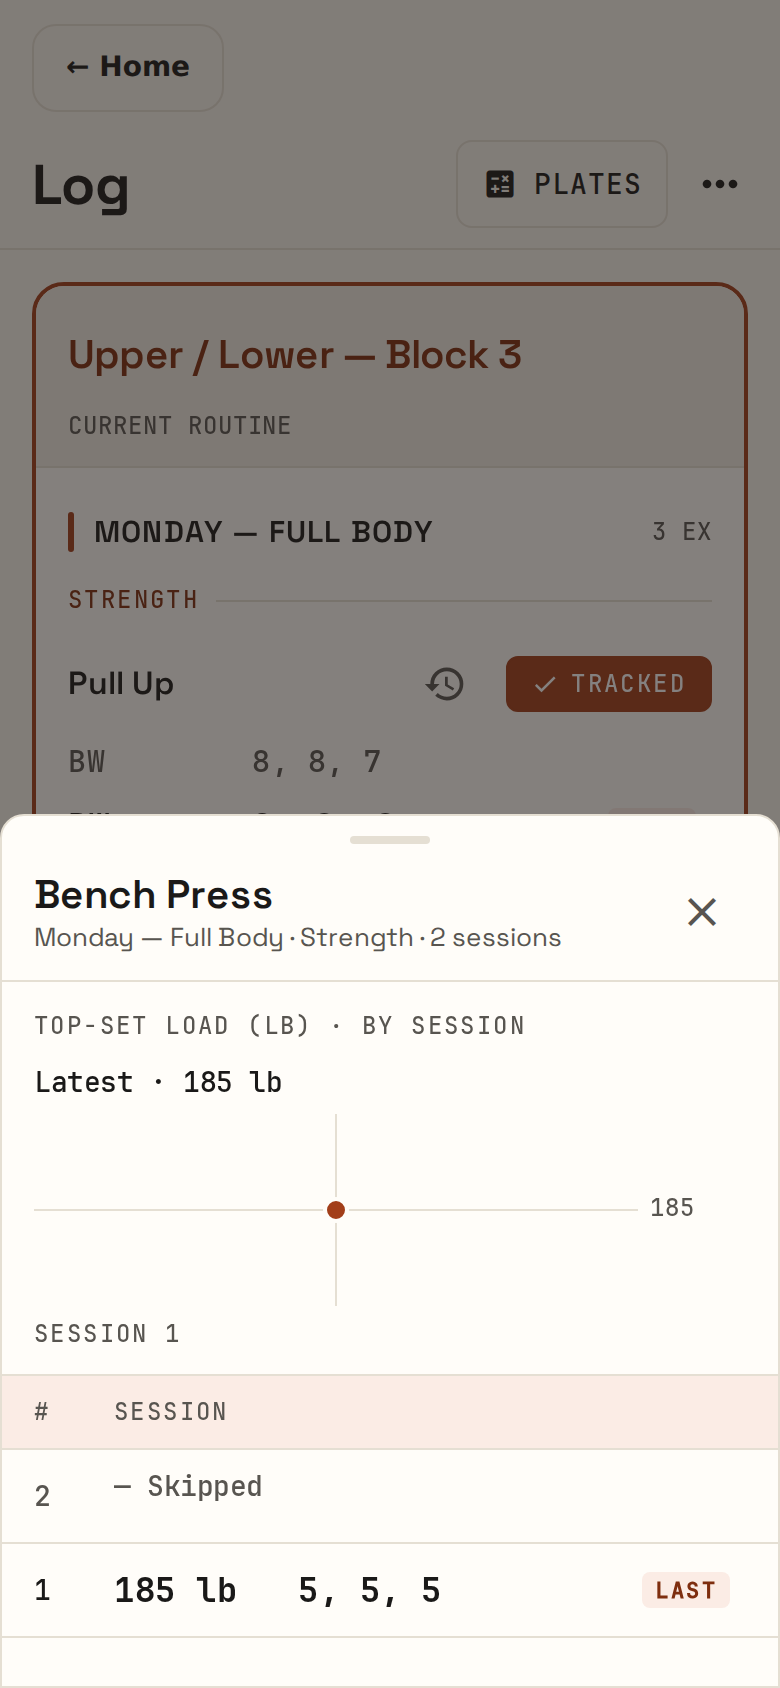
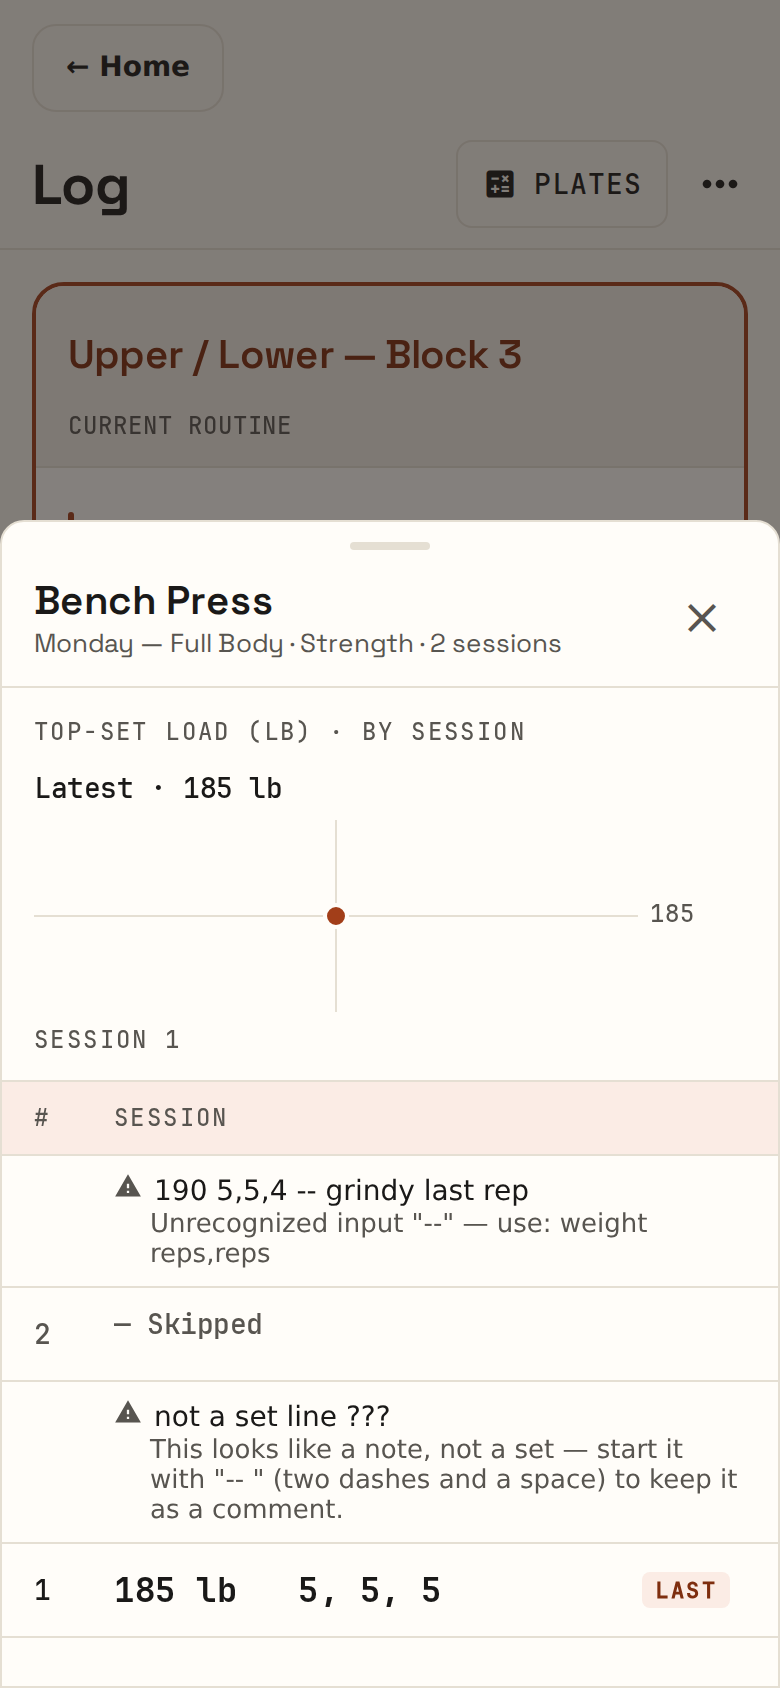
Rerender history evidence for unparsed rows (#1607)

diff --git a/docs/evidence/app-redesign-v3/r8/README.md b/docs/evidence/app-redesign-v3/r8/README.md
@@ -1,6 +1,6 @@
 # R8 (#1607) visual evidence — Log history sheet and rest-timer surfaces
 
-- **Rendered commits:** panel states (`editor-presets-*`, `editor-safe-area-*`, `editor-short-safe-area-*`, `editor-timer-done-*`, `editor-timer-cancelled-*`) at `e66b911dcb40dd242f2ac5671587313f420baeeb` (vertical fit); other timer/pill states (`editor-toolbar-idle`, `editor-docked-visible`, `editor-scrolled-pill`, `pill-*`, `home-timer-pill-*`) at `42b23561d7d7cd7a1646a6836a82bd8d690b3480` — e66b911 changes only the panel's vertical placement, which those states never open; `history-*` and `log-first-*` at `eaa4bf492bd954963af27563e6b4c02e3c84eb21` — later commits change only the edit-mode timer, not the read view or sheet. Real app Expo web export, not prototype HTML.
+- **Rendered commits:** panel states (`editor-presets-*`, `editor-safe-area-*`, `editor-short-safe-area-*`, `editor-timer-done-*`, `editor-timer-cancelled-*`) at `e66b911dcb40dd242f2ac5671587313f420baeeb` (vertical fit); other timer/pill states (`editor-toolbar-idle`, `editor-docked-visible`, `editor-scrolled-pill`, `pill-*`, `home-timer-pill-*`) at `42b23561d7d7cd7a1646a6836a82bd8d690b3480` — e66b911 changes only the panel's vertical placement, which those states never open; `history-*` and `log-first-*` at `34c45b58f412ee2aad28ad4ce72ee4e97e38669e` (positional unparsed rows kept). Real app Expo web export, not prototype HTML.
 - **Viewport:** 390×844 @2x via the shared harness (`../capture.cjs`, read-only); issue-local overlays in `fixtures.cjs`.
 - **Themes:** every state in hard-dark and clay-light; Log first screen and Home pill (first affected screens) also in grass-light and clay-dark.
 - **References:** `docs/design/app-redesign-v3/shots/hybrid/` state-log-history-sheet, state-log-editor, state-log-editor-timer, state-home-timer-running (hard-dark).
@@ -24,12 +24,12 @@ cd mobile && EXPO_PUBLIC_SUPABASE_URL=https://mockproj.supabase.co EXPO_PUBLIC_S
 cd .. && KILO_RENDERED_COMMIT=795f739a6d5e20da854a19965ace2a84bd60535f   node docs/evidence/app-redesign-v3/r8/capture.cjs /tmp/kilo-1607-dist-795f /tmp/kilo-review-tools/node_modules
 ```
 
-The runs (full matrix first; `history,log-first` rerun at eaa4bf4 and `editor,home,pill` rerun at 42b2356, panel states rerun at e66b911, each with the same command plus that `only` filter) captured all 52 states without a step failure (manifest written to the work dir). Later commits on this branch change only docs/evidence/changelog, so the renders still apply.
+The runs (full matrix first; `history,log-first` rerun at 34c45b5 and `editor,home,pill` rerun at 42b2356, panel states rerun at e66b911, each with the same command plus that `only` filter) captured all 52 states without a step failure (manifest written to the work dir). Later commits on this branch change only docs/evidence/changelog, so the renders still apply.
 
 ## Degradation and preserved capabilities
 
 - BW-only / timed-only exercises: chart replaced by a text fallback; sessions still listed (`history-bw-only`, `history-timed`).
-- Unparsed and skipped rows stay verbatim in the list and are never charted (`history-unparsed`, `history-repeated-accessories`).
+- Unparsed source rows (positional, inline, trailing) are listed verbatim, unnumbered and never charted; skipped rows are numbered but not charted (`history-unparsed`, `history-repeated-accessories`).
 - Selection: latest point selected by default (`history-sheet`); tapping session 1 moves the callout and marker (`history-point-earlier`).
 - Repeated names: Monday, Thursday-Strength and Thursday-Accessories Bench Press each open only their own sessions with distinct context (`history-sheet`, `history-repeated-*`); A/B routine names the week (`history-ab-week`).
 - Timer: idle/presets/running/cancelled/done in the editor; docked control with no pill at rest (`editor-docked-visible`); in a 390×560 window (bounded extra viewport — the fixture editor cannot scroll the tool row off a 844 window) scrolling past the tool row hands the countdown to the pill (`editor-scrolled-pill`); running pill on Home, Log read view, Weight, Analytics, More; completion pill with Dismiss; inset-device panel (`editor-safe-area`); short inset window 390×560 + insets 47/34 flips the panel above the control inside the safe area (`editor-short-safe-area`). The web build has no software keyboard; keyboard placement is unchanged code (pill clearance logic untouched).
